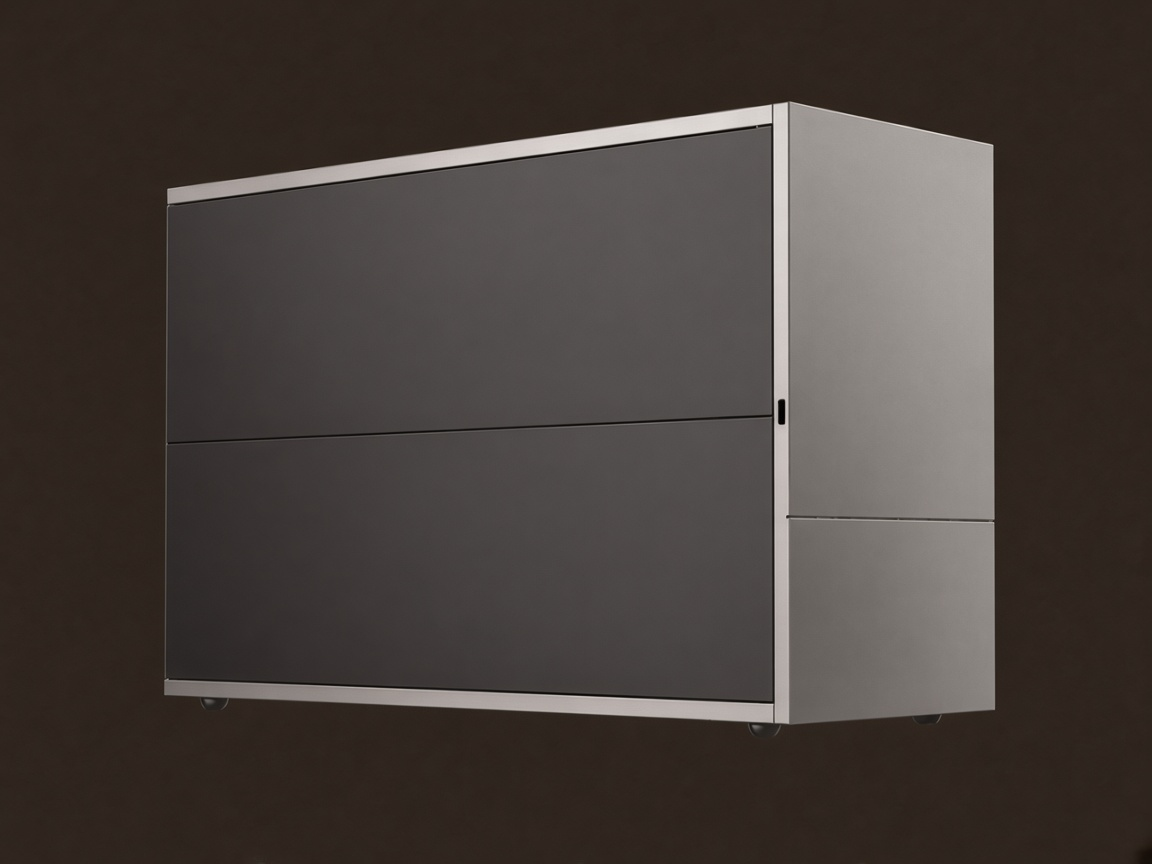
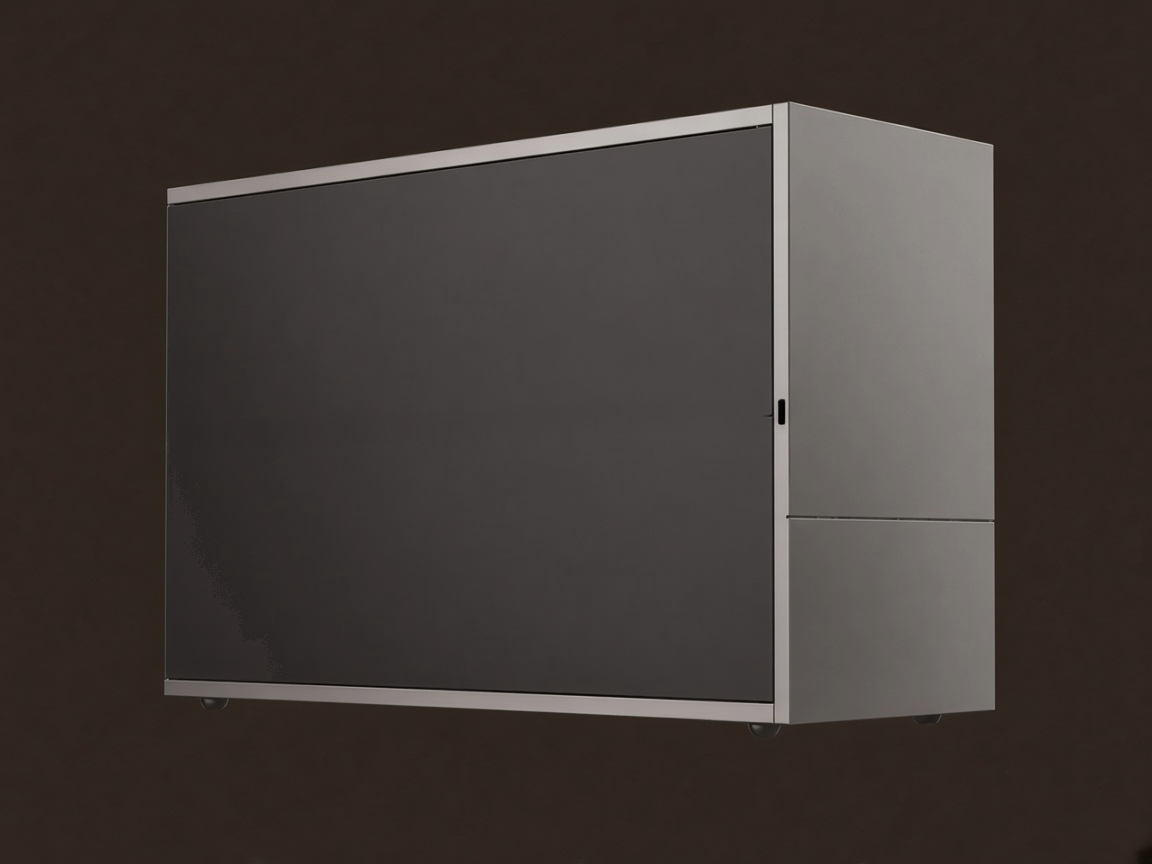
Show MK1 in the 3D viewer, clean up the chassis photo, and even product spacing.

Changed region(s): [[0.2812, 0.125, 0.6875, 0.6875], [0.5, 0.4688, 0.5938, 0.5]]

diff --git a/static/custom.css b/static/custom.css
@@ -410,11 +410,29 @@ html[data-brand="quad"] .chassis-viewer-bar {
   padding: 0.85rem 1rem 0.7rem;
 }
 
+html[data-brand="quad"] .chassis-viewer-identity {
+  display: flex;
+  flex-wrap: wrap;
+  align-items: baseline;
+  gap: 0.45rem 0.75rem;
+  min-width: 0;
+}
+
 html[data-brand="quad"] .chassis-viewer-bar h2 {
   margin: 0;
   font-size: var(--text-sm);
   font-weight: 600;
   letter-spacing: var(--tracking-label);
+  text-transform: uppercase;
+}
+
+html[data-brand="quad"] .chassis-viewer-model {
+  margin: 0;
+  color: rgba(244, 242, 240, 0.72);
+  font-size: var(--text-xs);
+  font-weight: 300;
+  letter-spacing: 0.14em;
+  line-height: 1;
   text-transform: uppercase;
 }
 
@@ -542,7 +560,7 @@ html[data-brand="quad"] [id^="product-"] {
 
 html[data-brand="quad"] .home-learn {
   margin-top: 0;
-  padding-top: 0.5rem;
+  padding-top: var(--space-6);
 }
 
 html[data-brand="quad"] .home-learn-overview {
@@ -655,14 +673,8 @@ html[data-brand="quad"] .home-hiring .hero-actions {
     justify-self: start;
   }
 
-  html[data-brand="quad"] .home-learn {
-    padding-top: var(--space-6);
-  }
-
   html[data-brand="quad"] .home-learn-intro {
-    padding-inline-start: calc(
-      var(--product-pad-inline) + var(--product-logo-col) + var(--product-row-gap)
-    );
+    padding-inline-start: var(--product-pad-inline);
   }
 
   html[data-brand="quad"] .hero-photo img {

diff --git a/templates/partials/devlab/home/product-card.html b/templates/partials/devlab/home/product-card.html
@@ -66,7 +66,12 @@
 <dialog class="chassis-viewer" id="{{ product_dom_id }}-viewer" aria-labelledby="{{ product_dom_id }}-viewer-title">
   <div class="chassis-viewer-panel">
     <div class="chassis-viewer-bar">
-      <h2 id="{{ product_dom_id }}-viewer-title">{{ product_title }}</h2>
+      <div class="chassis-viewer-identity">
+        <h2 id="{{ product_dom_id }}-viewer-title">{{ product_title }}</h2>
+        {% if product_aside_caption %}
+        <p class="chassis-viewer-model">{{ product_aside_caption }}</p>
+        {% endif %}
+      </div>
       <button type="button" class="chassis-viewer-close" data-chassis-close aria-label="Close 3D view">
         Close
       </button>
